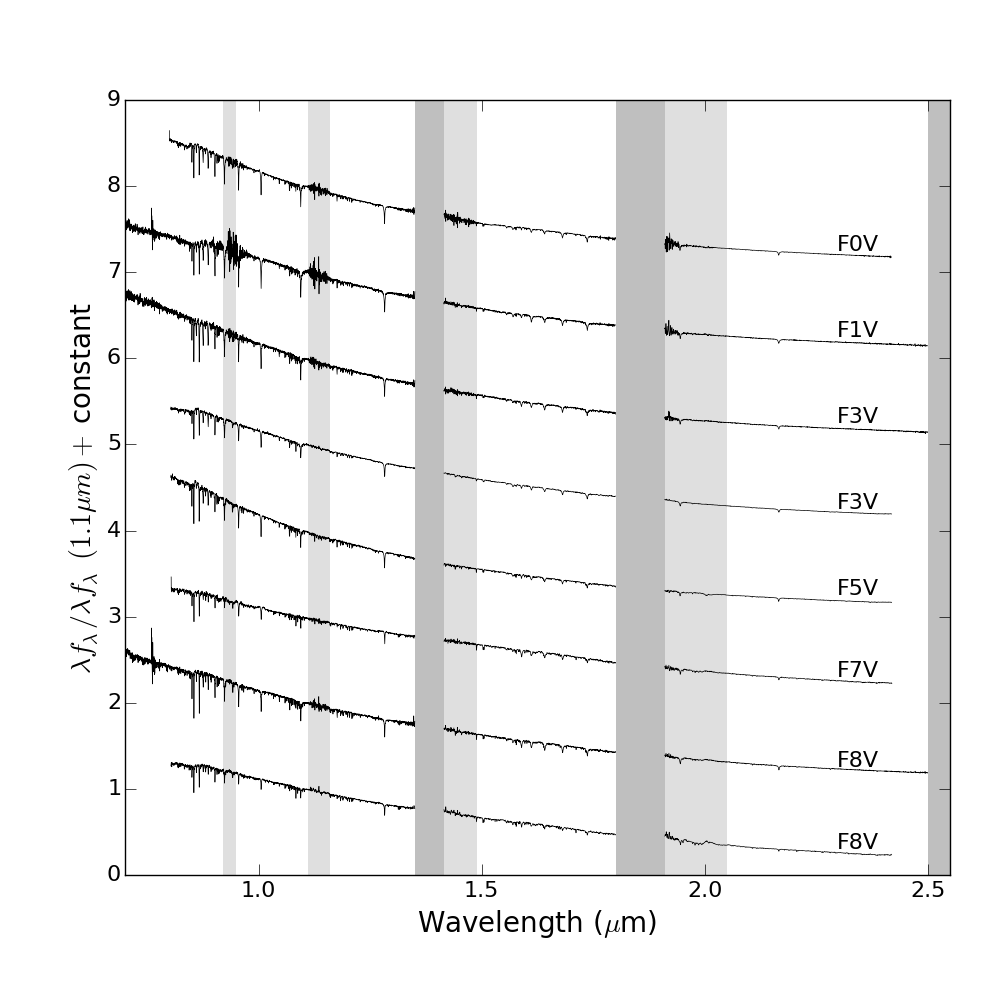
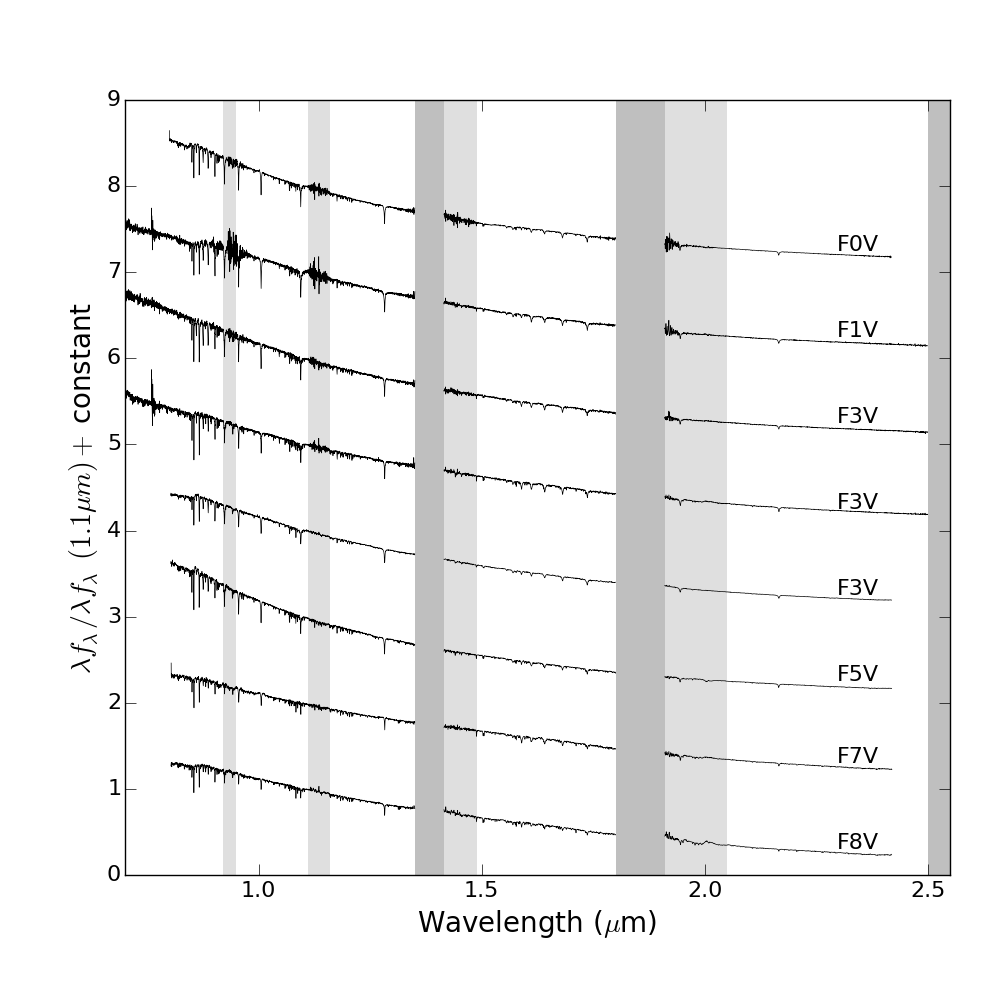
updated stacked plots with new SptTyp (from lit search)

diff --git a/figures/stacked_plots/k/caption.tex b/figures/stacked_plots/k/caption.tex
@@ -1,2 +1,2 @@
-{\bf Sequence from 0.7–2.55 $\mu$m. From bottom to top, these spectra are of Sco 160900.7-19085 (K9V), GSC 06208-00834 (K6V), ScoPMS 45 (K5V), GSC 06793-00797 (K4V), ScoPMS 44 (K2V), GSC 06801-00186 (K0IV(e)), GSC 06801-00186 (oldSpx) (K0IV(e)), ScoPMS 214 (K0V), CD-25 11942 (K0V).\label{fig:stack-plot-k}}
+{\bf Sequence from 0.7–2.55 $\mu$m. From bottom to top, these spectra are of Sco 160900.7-19085 (K9V), GSC 06208-00834 (K6V), ScoPMS 45 (K5V), GSC 06793-00797 (K4V), ScoPMS 44 (K2IV), ScoPMS 214 (K2IV(e)), GSC 06801-00186 (K0IV(e)), CD-25 11942 (K0V).\label{fig:stack-plot-k}}
 %The spectra have been normalized to unity at 1.10 μm and offset by constants (dotted lines).

diff --git a/figures/stacked_plots/f/caption.tex b/figures/stacked_plots/f/caption.tex
@@ -1,3 +1,3 @@
-{\bf Sequence from 0.7–2.55 $\mu$m. From bottom to top, these spectra are of HD 142113 (F8V), HIP 71982 (F8V), HIP 78977 (F7V), HD 148153 (F5V), HD 146743 (F3V), HIP 82319 (F3V), HIP 79369 (F1V), HD 137130 (F0V).
+{\bf Sequence from 0.7–2.55 $\mu$m. From bottom to top, these spectra are of HD 142113 (F8V), HIP 78977 (F7V), HD 148153 (F5V), HD 146743 (F3V), HIP 71982 (F3V), HIP 82319 (F3V), HIP 79369 (F1V), HD 137130 (F0V).
 %The spectra have been normalized to unity at 1.10 μm and offset by constants (dotted lines).
 \label{fig:stack-plot-f}}

diff --git a/figures/stacked_plots/other/k_doubleCount/caption.tex b/figures/stacked_plots/other/k_doubleCount/caption.tex
@@ -1,0 +1,2 @@
+{\bf [NOTE: this plot double counts SpeX and uSpeX observations]\\Sequence from 0.7–2.55 $\mu$m. From bottom to top, these spectra are of Sco 160900.7-19085 (K9V), GSC 06208-00834 (K6V), ScoPMS 45 (K5V), GSC 06793-00797 (K4V), ScoPMS 44 (K2IV), ScoPMS 214 (K0IV(e)), GSC 06801-00186 (uSpeX) (K0IV(e)), GSC 06801-00186 (SpeX) (K0IV(e)), CD-25 11942 (K0V).\label{fig:stack-plot-k}}
+%The spectra have been normalized to unity at 1.10 μm and offset by constants (dotted lines).

diff --git a/figures/stacked_plots/other/k_doubleCount/size.tex b/figures/stacked_plots/other/k_doubleCount/size.tex
@@ -1,0 +1,1 @@
+height = 700\nwidth = 500

diff --git a/figures/stacked_plots/other/low_snr/size.tex b/figures/stacked_plots/other/low_snr/size.tex
@@ -1,0 +1,1 @@
+height = 700\nwidth = 500

diff --git a/layout.md b/layout.md
@@ -16,9 +16,10 @@ figures/stacked_plots/a/group_a.png
 figures/stacked_plots/f/group_f.png
 figures/stacked_plots/g/group_g.png
 figures/stacked_plots/k/group_k.png
+figures/stacked_plots/other/low_snr/k_doubleCount
 figures/stacked_plots/m/group_m.png
-figures/stacked_plots/low_snr/group_low_SNR.png
-figures/stacked_plots/g5v/g5v_HBC_649.png
+figures/stacked_plots/other/low_snr/group_low_SNR.png
+figures/stacked_plots/other/g5v/g5v_HBC_649.png
 tables/EW_features_cool_stars.tex
 Equivalent_Widths.tex
 figures/EW_SptType/reproduce35_cutoff0_subplots_err.png
